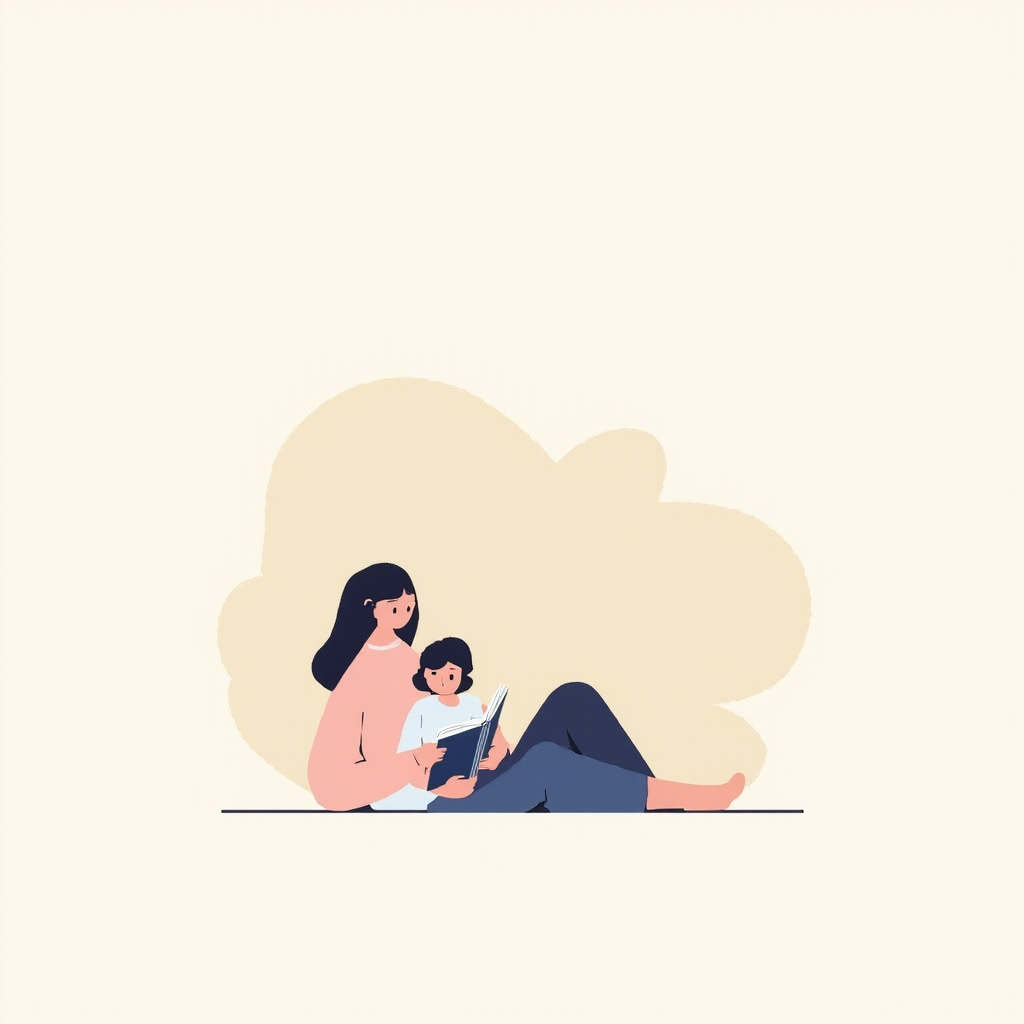
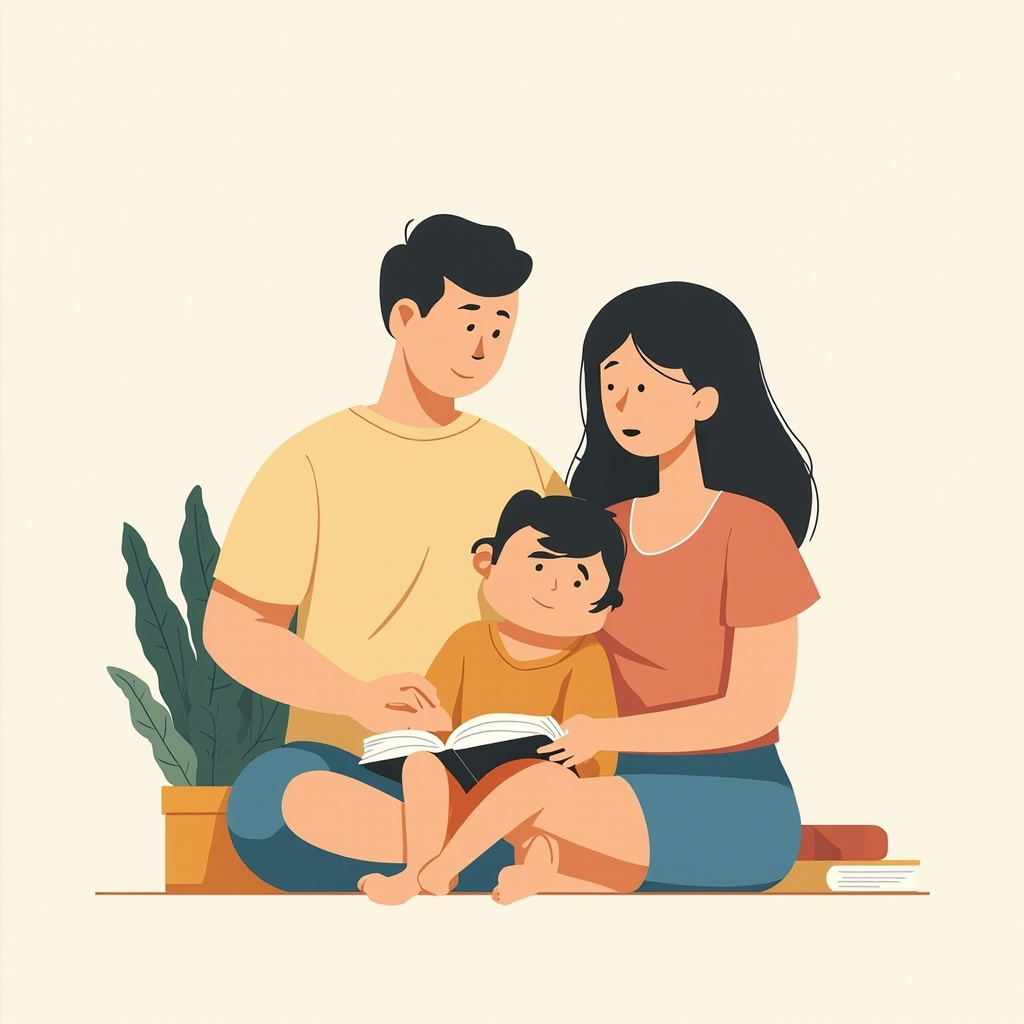
fix(reading-habit): optimize image display and AI generation prompt
- CSS: remove padding from .card-image, change object-fit to cover, height 180px
- AI prompt: require subject to fill 80%+ of frame, close-up composition, minimal whitespace
- Replace fixed-reading-time.jpg with new version where family fills the frame

diff --git a/reading-habit/styles.css b/reading-habit/styles.css
@@ -139,19 +139,19 @@ body {
 
 /* Card Image */
 .card-image {
-    height: 120px;
+    height: 180px;
     display: flex;
     align-items: center;
     justify-content: center;
     background: linear-gradient(135deg, #f0f4f8 0%, #e0e8f0 100%);
     transition: var(--transition);
-    padding: 16px;
+    overflow: hidden;
 }
 
 .card-image img {
     width: 100%;
     height: 100%;
-    object-fit: contain;
+    object-fit: cover;
     transition: var(--transition);
 }
 
